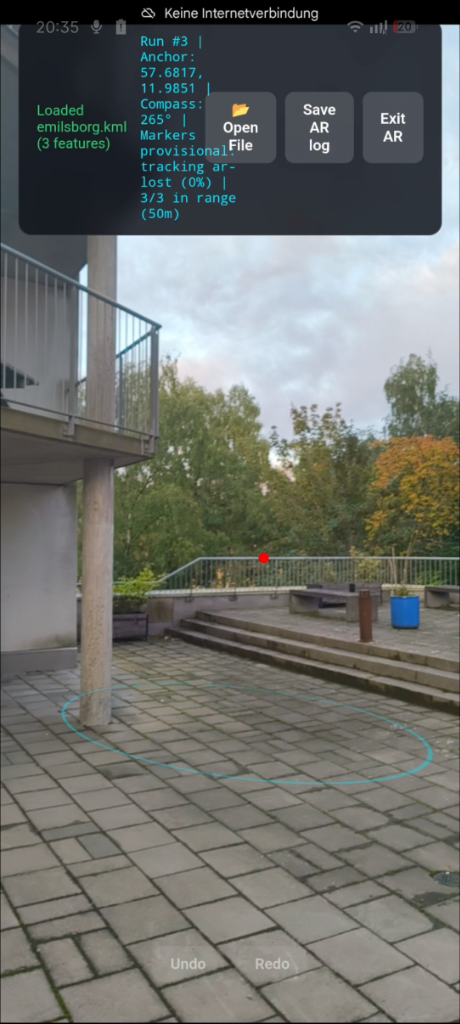
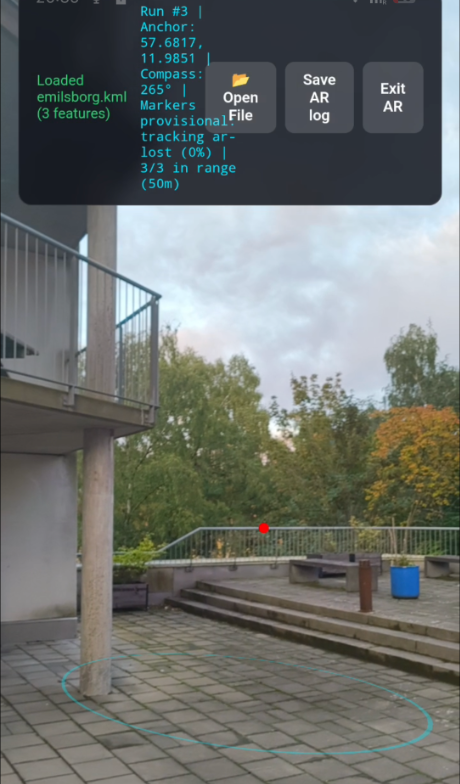
slide 2 picture alignment

diff --git a/KmlEditor/presentation.html b/KmlEditor/presentation.html
@@ -565,45 +565,58 @@
     </section>
 
     <!-- SLIDE 2: SECTION 1 - INTRODUCTION & MOTIVATION -->
-    <section class="slide" id="slide-2">
-      <div class="slide-section-num">1. INTRODUCTION &amp; MOTIVATION</div>
-      <h2 class="slide-title">Why We Built This System</h2>
-      
-      <!-- Top Bullet Points -->
-      <div class="grid-2 fragment" style="margin-bottom: 28px;">
-        <div class="glass-card highlight">
-          <div class="card-title">The Goal</div>
-          <ul class="bullet-list">
-            <li class="bullet-item">Load, view, and edit geographic KML/KMZ files directly in the browser.</li>
-            <li class="bullet-item">Inspect and edit markers anchored at real GPS positions on smartphones.</li>
-          </ul>
-        </div>
+<section class="slide" id="slide-2" style="padding: 40px 48px;">
+  <div class="slide-section-num">1. INTRODUCTION &amp; MOTIVATION</div>
+  <h2 class="slide-title">Why We Built This System</h2>
 
-        <div class="glass-card highlight">
-          <div class="card-title">Our Solution</div>
-          <ul class="bullet-list">
-            <li class="bullet-item">Dual-mode application: 3D Desktop Map Editor + Mobile Field AR View.</li>
-            <li class="bullet-item">Unified architecture ensuring edits persist identically across desktop and mobile.</li>
-          </ul>
+  <!-- 3-column layout: text | 2 stacked landscape images | tall portrait image -->
+  <div class="fragment" style="display: grid; grid-template-columns: 1fr 1.1fr 1fr; gap: 24px; align-items: stretch; margin-top: 24px;">
+
+    <!-- LEFT COLUMN: Combined Text Box -->
+    <div class="glass-card highlight" style="display: flex; flex-direction: column; gap: 20px; padding: 24px;">
+      <div>
+        <div class="card-title">The Goal</div>
+        <ul class="bullet-list">
+          <li class="bullet-item">Load, view, and edit geographic KML/KMZ files directly in the browser.</li>
+          <li class="bullet-item">Inspect and edit markers anchored at real GPS positions on smartphones.</li>
+        </ul>
+      </div>
+      <div>
+        <div class="card-title">Our Solution</div>
+        <ul class="bullet-list">
+          <li class="bullet-item">Dual-mode application: 3D Desktop Map Editor + Mobile Field AR View.</li>
+          <li class="bullet-item">Unified architecture ensuring edits persist identically across desktop and mobile.</li>
+        </ul>
+      </div>
+    </div>
+
+    <!-- MIDDLE COLUMN: 2 Stacked Landscape Screenshots -->
+    <div style="display: flex; flex-direction: column; gap: 24px; height: 100%;">
+      <div class="glass-card" style="padding: 12px; flex: 1; text-align: center; display: flex; flex-direction: column; justify-content: space-between;">
+        <div style="width: 100%; flex: 1; border-radius: 8px; background: rgba(0,0,0,0.25); display: flex; align-items: center; justify-content: center; overflow: hidden;">
+          <img src="slide-google-earth.jpg" alt="Google Earth Source Map" style="max-width: 100%; max-height: 100%; object-fit: contain;">
         </div>
+        <div style="font-weight: 700; color: #a5b4fc; font-size: 1.05rem; margin-top: 8px;">1. Google Earth Source Map</div>
       </div>
 
-      <!-- 3 Real Screenshots for System UI -->
-      <div class="grid-3 fragment">
-        <div class="glass-card" style="padding: 12px; height: 340px; text-align: center; display: flex; flex-direction: column; justify-content: space-between;">
-          <img src="slide-google-earth.jpg" alt="Google Earth Source Map" style="width: 100%; height: 265px; object-fit: cover; border-radius: 8px;">
-          <div style="font-weight: 700; color: #a5b4fc; font-size: 1.05rem; margin-top: 8px;">1. Google Earth Source Map</div>
+      <div class="glass-card" style="padding: 12px; flex: 1; text-align: center; display: flex; flex-direction: column; justify-content: space-between;">
+        <div style="width: 100%; flex: 1; border-radius: 8px; background: rgba(0,0,0,0.25); display: flex; align-items: center; justify-content: center; overflow: hidden;">
+          <img src="slide-desktop-editor.png" alt="Desktop 3D Editor" style="max-width: 100%; max-height: 100%; object-fit: contain;">
         </div>
-        <div class="glass-card" style="padding: 12px; height: 340px; text-align: center; display: flex; flex-direction: column; justify-content: space-between;">
-          <img src="slide-desktop-editor.png" alt="Desktop 3D Editor" style="width: 100%; height: 265px; object-fit: cover; border-radius: 8px;">
-          <div style="font-weight: 700; color: #a5b4fc; font-size: 1.05rem; margin-top: 8px;">2. 3D Desktop Editor</div>
-        </div>
-        <div class="glass-card" style="padding: 12px; height: 340px; text-align: center; display: flex; flex-direction: column; justify-content: space-between;">
-          <img src="slide-mobile-ar.png" alt="Mobile Field AR App" style="width: 100%; height: 265px; object-fit: cover; border-radius: 8px;">
-          <div style="font-weight: 700; color: #a5b4fc; font-size: 1.05rem; margin-top: 8px;">3. Mobile Field AR App</div>
-        </div>
+        <div style="font-weight: 700; color: #a5b4fc; font-size: 1.05rem; margin-top: 8px;">2. 3D Desktop Editor</div>
       </div>
-    </section>
+    </div>
+
+    <!-- RIGHT COLUMN: Tall Portrait Screenshot -->
+    <div class="glass-card" style="padding: 12px; text-align: center; display: flex; flex-direction: column; justify-content: space-between; height: 100%;">
+      <div style="width: 100%; flex: 1; border-radius: 8px; background: rgba(0,0,0,0.25); display: flex; align-items: center; justify-content: center; overflow: hidden;">
+        <img src="slide-mobile-ar.png" alt="Mobile Field AR App" style="max-width: 100%; max-height: 100%; object-fit: contain;">
+      </div>
+      <div style="font-weight: 700; color: #a5b4fc; font-size: 1.05rem; margin-top: 8px;">3. Mobile Field AR App</div>
+    </div>
+
+  </div>
+</section>
 
     <!-- SLIDE 3: SECTION 2 - SYSTEM ARCHITECTURE (PERFECT VECTOR SVG DIAGRAM) -->
     <section class="slide" id="slide-3">
